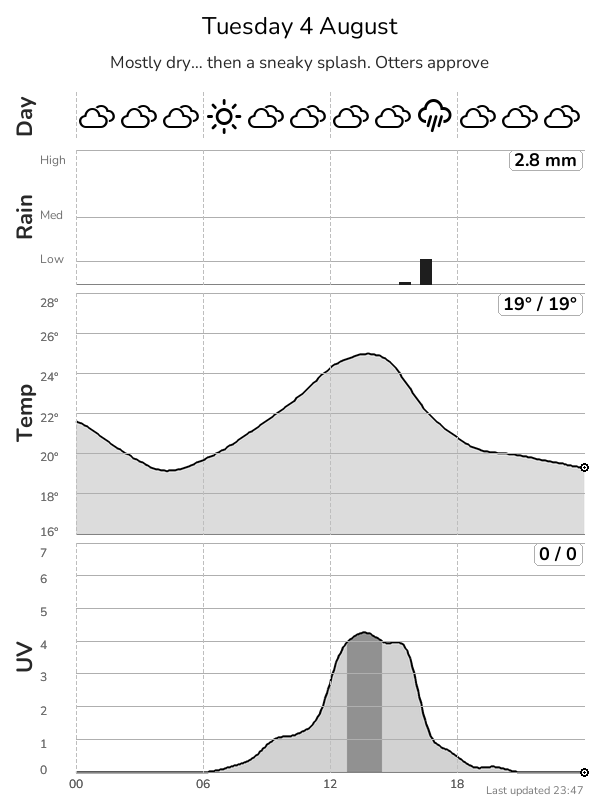
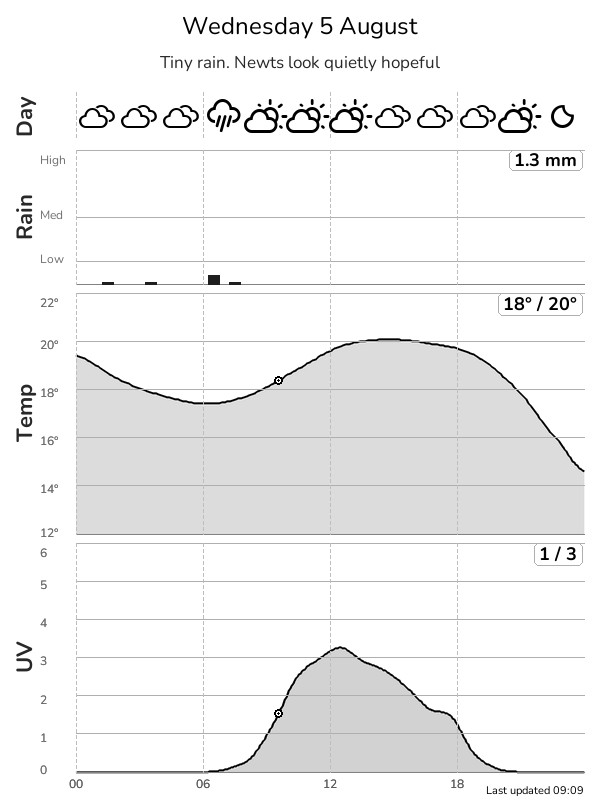
Make the Last updated stamp black for e-ink readability.

diff --git a/src/widgets/uv.py b/src/widgets/uv.py
@@ -180,5 +180,5 @@ class UVForecastWidget(Widget):
                 ),
                 updated,
                 font=meta_font,
-                fill=120,
+                fill=0,
             )
